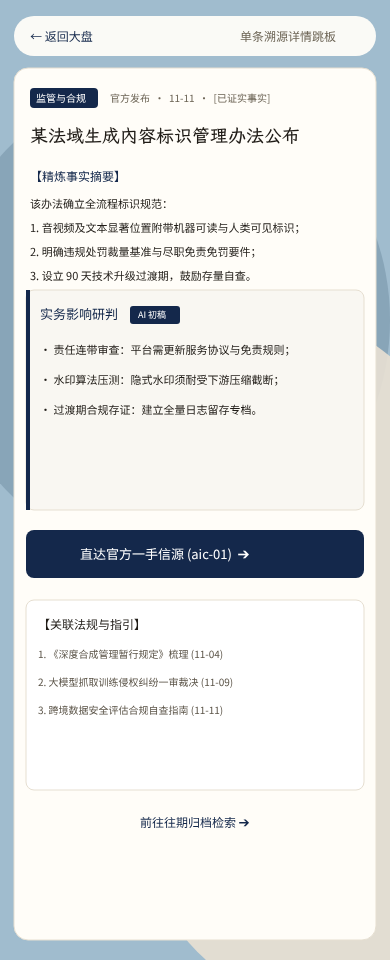
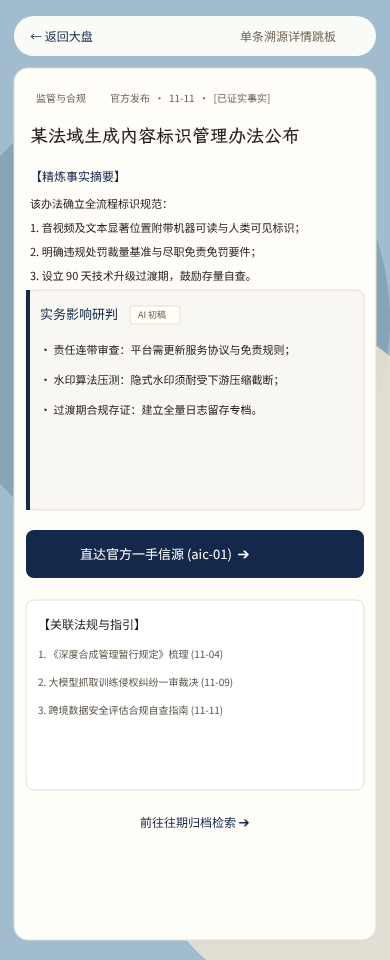
fix(design): B2 - 徽标四种样式落地、分类条渐变遮罩与规范统一

Changed region(s): [[0.0615, 0.0938, 0.2462, 0.125], [0.3385, 0.3125, 0.4615, 0.3438]]

diff --git a/design/design-system.md b/design/design-system.md
@@ -19,7 +19,7 @@ LexAIDaily 面向执业律师、企业法务、合规官、法律科技从业者
 3. **单一深海军蓝强调色（Single Accent Color）**：
    - 全站严格只允许 **1 个强调色** —— **深海军蓝**（`#14284B`）。用于“头条”徽标、选中项滑块、未核实警示线、链接交互等。杜绝多色系五彩斑斓的视觉干扰。
 4. **悬浮液态玻璃导航（Liquid Glass Navigation）**：
-   - 玻璃材质**严格限定仅用于两处**：① 底部居中悬浮的分类切换条；② 移动端顶部固定的日期导航栏。提供半透明磨砂折射与高光微质感，浮于内容之上，不喧宾夺主。
+   - 玻璃材质**严格限定仅用于分类切换条**；日期导航采用白色实底胶囊（`#FFFDF8`，100% 实底），直接置于雾霭蓝灰底（`#A0BCCE`）之上。分类切换条提供半透明磨砂折射与高光微质感，浮于内容之上，不喧宾夺主。
 5. **小红书双列瀑布流（Dual-Column Masonry Flow）**：
    - 移动端采用双列错落排布布局，第一列顶部为“今日综述”卡片，第二列顶部为“关键词雷达”卡片，下方承接紧凑错落卡片，兼顾移动端视觉探索感与高信息密度。
 6. **Ian’s Daily 3 分钟极速扫读节奏**：
@@ -42,11 +42,11 @@ LexAIDaily 面向执业律师、企业法务、合规官、法律科技从业者
 | **Panel Solid Surface** | `#FFFDF8` | 今日综述面板、轮播组件容器底色 |
 | **Wash Shadow** | `#7B98AC` (65% opt) | 矢量对角水墨晕染色斑，供玻璃折射 |
 
-### 2.2 液态玻璃色彩与光学参数（仅限分类条与日期栏）
+### 2.2 液态玻璃色彩与光学参数（仅限分类切换条）
 
 | 玻璃角色 | 色值 / 属性 | 说明 |
 |---|---|---|
-| **Glass Surface** | `rgba(255, 255, 255, 0.94)`（Penpot 实测）/ `rgba(255, 255, 255, 0.64)`（Web CSS） | 半透明白色液态玻璃主体填充。Penpot 原型实测采用 94% 暖白以杜绝文字透影；Web 端通过 `blur(24px)` 配合 64% 达成真实折射 |
+| **Glass Surface** | `rgba(255, 255, 255, 0.94)`（桌面实测）/ `rgba(255, 253, 248, 0.94)`（移动端实测）/ `rgba(255, 255, 255, 0.64)`（Web CSS） | 半透明白色液态玻璃主体填充。Penpot 原型实测采用 94% 不透明度（桌面 `#FFFFFF`，移动端 `#FFFDF8`）以控制文字透出；Web 端通过 `blur(24px)` 配合 64% 达成真实折射 |
 | **Active Slider Surface** | `#14284B`（深海军蓝实底） | 激活项滑块底色，配纯白文字（对比度 14.64:1，AAA 级） |
 | **Border Top Highlight** | `rgba(255, 255, 255, 0.70)` | 1px 顶部高光边缘，体现光线物理质感 |
 | **Border Bottom Edge** | `rgba(220, 212, 192, 0.50)` | 1px 底部暗调微妙收敛边缘 |
@@ -78,7 +78,7 @@ LexAIDaily 面向执业律师、企业法务、合规官、法律科技从业者
     - **画板实测参数**：Penpot 原型分类条实测采用 **94%（0.94）** 不透明度白色填充（`rgba(255, 255, 255, 0.94)`）。
     - **物理混合底色**：94% 白色玻璃叠加底层折射最深文字色斑（墨黑 `#1F1B16`）后，物理混合底色亮度实测为 `rgb(242, 241, 241)`。
     - **文字对比度实测**：深海军蓝导航文字（`#14284B`）有效对比度达到 **12.98:1**（远超 AAA 级标准 7.0:1）；墨黑文字（`#1F1B16`）达到 **15.19:1**（AAA 级）；未激活次要分类文字（`#5C5549`）达到 **6.53:1**（AA 级）。
-    - **透出反差控制**：底层墨黑文字在 94% 玻璃覆盖下的透出反差降至 **1.13:1**（显著优于 82% 时的 1.45:1 与 60% 时的 2.49:1，低于视觉可察觉阈值，实现透出文字的彻底隐形）。
+    - **透出反差控制**：底层墨黑文字在 94% 玻璃覆盖下的透出反差降至 **1.13:1**（显著优于 82% 时的 1.45:1 与 60% 时的 2.49:1；透出反差降至 1.13:1，淡影仍可辨，由渐变遮罩与版式进一步处理）。
     - **B2 批次目标值决策**：保持画板实测 **94%（0.94）** 不透明度作为最终基线，无需降至 82%（避免透出反差反弹）；B2 重点通过渐变遮罩进一步消除分类条顶部的视觉切断感。
 - **无障碍回退（Reduced-Transparency）**：
   系统在 `design/tokens/tokens.json` 中配置了 `reducedTransparency` 纯色令牌组。在系统开启“降低透明度”或不支持 CSS `backdrop-filter` 的终端环境下，玻璃组件自动降级为实色 `#F6F1E6` 与 1px `#DCD4C0` 实线边框；滑块保持 `#14284B` 实底与 `#FFFFFF` 白字（14.64:1），保证清晰易读。
@@ -105,7 +105,7 @@ LexAIDaily 面向执业律师、企业法务、合规官、法律科技从业者
   blend_94 = blend("#FFFFFF", "#1F1B16", 0.94) # 94% 白色叠加最深墨黑底
   print("Navy on 94% Glass (worst-case):", C("#14284B", blend_94)) # 12.98:1 (AAA)
   print("Primary on 94% Glass (worst-case):", C("#1F1B16", blend_94)) # 15.19:1 (AAA)
-  print("透出文字反差 (94% Glass):", C(blend_94, "#FFFFFF"))         # 1.13:1 (无感消隐)
+  print("透出文字反差 (94% Glass):", C(blend_94, "#FFFFFF"))         # 1.13:1 (淡影仍可辨)
   ```
 
 ---
@@ -164,7 +164,7 @@ LexAIDaily 面向执业律师、企业法务、合规官、法律科技从业者
 ### 5.2 日期导航与归档流
 
 - **桌面端**：左侧设立独立极简流式日期面板（宽 240px），无厚重灰色底框，当前日期（如 `11月11日`）以亮白圆角胶囊高亮呈现，下方排布往期日期流及条目计数（14px/15px 易读字阶）。
-- **移动端**：顶部固定液态玻璃日期横滚条（高度 **52px**），内容向上滚动时在玻璃下方产生模糊渐隐。
+- **移动端**：顶部固定极简日期横滚条（高度 **52px**），采用白色实底胶囊（`#FFFDF8`，100% 实底），非激活日期直接置于雾霭蓝灰底（`#A0BCCE`）之上。
 
 ### 5.3 移动端小红书双列瀑布流
 

diff --git a/design/penpot.md b/design/penpot.md
@@ -66,7 +66,7 @@
    - **桌面日期导航**（画板 01、02 `pill-date-active`）：填充色 `#FFFDF8`，实测不透明度 **1.0（100% 实底白胶囊）**，规格 210 × 42 px；非激活日期直承于雾霭蓝灰底（`#A0BCCE`），文字 `#14284B`。
    - **移动日期导航**（画板 05、06 `m-date-active`）：填充色 `#FFFDF8`，实测不透明度 **1.0（100% 实底白胶囊）**，规格 92 × 30 px；非激活日期直承于雾霭蓝灰底（`#A0BCCE`），文字 `#14284B`。
    - **风格样张组件**（画板 09 `callout-category-bar`）：实测填充色 `#FFFFFF`，不透明度 **0.92（92%）**；规范文字说明标注 `• 导航玻璃底座: rgba(255, 255, 255, 0.94) + 顶白微光边缘`。
-   - **B2 决策结论**：画板实况始终为 94% 不透明度，底层文字透出反差仅 1.13:1。若执行“降到 82%”反而会导致透出反差反弹恶化至 1.45:1，因此 B2 目标值严格维持 94% 原型实测基线不变。
+   - **B2 决策结论与统一说明**：依据第六轮复核与 Human 决定（H1 选择 A），玻璃材质严格限定仅用于分类切换条，日期导航使用白色实底胶囊；09 样张分类条填充不透明度已由 0.92 修正为 0.94，与标注文本彻底一致；桌面分类条填充为 `#FFFFFF` (0.94)，移动端分类条填充为 `#FFFDF8` (0.94)；透出反差降至 1.13:1，淡影仍可辨，由渐变遮罩与版式进一步处理。目标值严格维持 94% 原型实测基线不变。
 3. **高保真截图落盘**：
    全量 8 块画板及风格样张已完整导出至 `design/screenshots/g1-02b/`：
    - `01-desktop-dashboard.png` (1440 × 1080)
